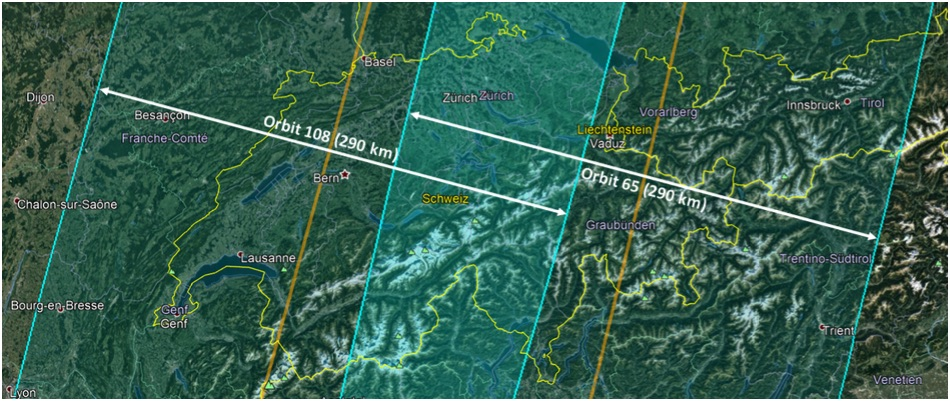
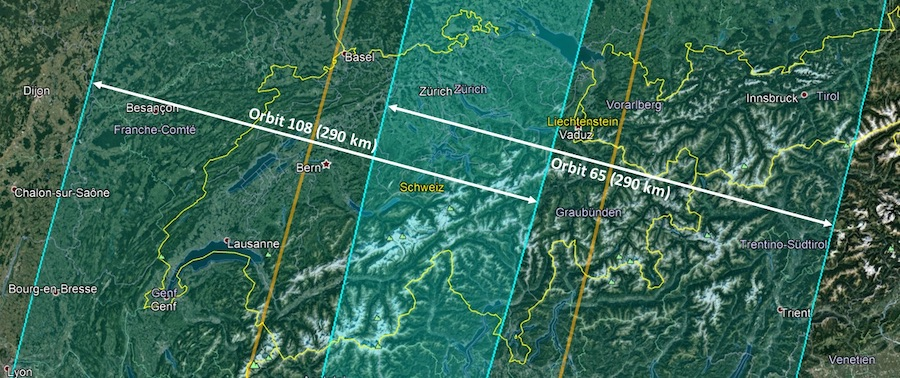
feat:new images and shorter intro text to make contents visible.

diff --git a/webapp/src/utils/description_content.js b/webapp/src/utils/description_content.js
@@ -1,10 +1,10 @@
-import reflectanceImage from "url:../img/projektbeschrieb.jpg";
-import ndviZeitreiheImage from "url:../img/ndvi_zeitreihe.jpg";
+import reflectanceImage from "url:../img/projektbeschrieb.png";
+import ndviZeitreiheImage from "url:../img/ndvi_zeitreihe.png";
 import useCase2Viewer from "url:../img/uc2_viewer_screenshot.jpg";
 import sentinel_orbits from "url:../img/sentinel_orbits.jpg";
 import sommersturm2017Image from "url:../img/sommersturm_2017.jpg";
-import nbrDiff from "url:../img/nbr_diff.jpg";
-import ndviAnomalienImage from "url:../img/ndvi_anomalien.jpg";
+import nbrDiff from "url:../img/nbr_diff.png";
+import ndviAnomalienImage from "url:../img/ndvi_anomalien.PNG";
 import SchlussberichtWeb from "url:../assets/Schlussbericht_Web.pdf";
 import { getVideoElement } from "./main_util";
 
@@ -16,18 +16,13 @@ const descriptionContent = {
     <div>Auf dieser Seite werden die Ergebnisse des Forschungsprojektes <strong>«Einsatz von Fernerkundungsdaten in Forstbetrieben und Forstdiensten anhand von konkreten Use-Cases»</strong> vorgestellt, 
     welches von der Fachhochschule für Agrar-, Forst- und Lebensmittelwissenschaften BFH-HAFL im Auftrag und mit Unterstützung des Bundesamtes für Umwelt (BAFU) und KARTEN-WERK GmbH durchgeführt wurde.</div>
     <div style="height:16px"></div>
-    <div>Das Hauptziel des Projektes war die Implementierung von Kartenviewern sowie Geodiensten (Erklärung dazu siehe z.B. <a href="https://www.geo.admin.ch/de/geo-dienstleistungen/geodienste.html">hier</a>) für konkrete Use-Cases mit existierenden, 
-    möglichst frei verfügbaren Fernerkundungsdaten. Dazu wurden folgende Schritte unternommen:</div>
-    <ul>
-    <li style="padding:12px 0">Ausarbeitung von 3 konkreten Use-Cases zusammen mit VertreterInnen aus der Praxis (Abgleich von Angebot und Nachfrage)</li>
-    <li>Bedarfsgerechte Informationsbereitstellung und Implementierung webbasierter Kartenviewer sowie Bereitstellung der Ergebnisse als Geodienste</li>
-    </ul>
-    <div style="height:16px"></div>
-    <div>Folgende Anwendungsfälle wurden bearbeitet:</div>
-    <ul>
-    <li style="padding:12px 0">Use-Case 1 - <strong>Monitoring jährlicher Waldveränderungen (forstliche Eingriffe und andere)</strong></li>
+    <div>Das Hauptziel des Projektes war die Implementierung von Kartenviewern sowie Geodiensten (Erklärung dazu siehe z.B. <a href="https://www.geo.admin.ch/de/geo-dienstleistungen/geodienste.html" rel="noopener noreferrer" target="_blank">hier</a>) für konkrete Use-Cases mit existierenden, 
+    möglichst frei verfügbaren Fernerkundungsdaten. Es wurden 3 Use-Cases zusammen mit VertreterInnen aus der Praxis ausgearbeitet 
+    (Abgleich von Angebot und Nachfrage), und die Informationen, Daten und Resultate bedarfsgerecht bereitgestellt.</div>
+    <ul style="margin-block-start: 8px; margin-block-end:8px">
+    <li style="padding:4px 0">Use-Case 1 - <strong>Monitoring jährlicher Waldveränderungen (forstliche Eingriffe und andere)</strong></li>
     <li>Use-Case 2 - <strong>Rasche Erfassung von Sommersturmschäden</strong></li>
-    <li style="padding:12px 0">Use-Case 3 - <strong>Hinweiskarten zur Vitalität von Waldflächen</strong></li>
+    <li style="padding:4px 0">Use-Case 3 - <strong>Hinweiskarten zur Vitalität von Waldflächen</strong></li>
     </ul>
   
     <div>Auf dieser Seite finden Sie Hinweise zur korrekten Verwendung der Kartenviewer und Geodienste sowie Videoanleitungen 
@@ -59,9 +54,9 @@ const descriptionContent = {
       Forschungsprojektes eine Expertengruppe mit je drei VertreterInnen von Forstbetrieben und Forstdiensten gebildet. 
       Die drei Use-Cases wurden in enger Zusammenarbeit mit den Praxispersonen ausgebarbeitet.
     <div style="height:16px"></div>
-    Dieses Projekt baut auf den Resultaten der Projekte <a href="https://www.planfor.ch/de/content/schlussbericht-waldmonitoring-mit-sentinel-2-satellitenbildern">
+    Dieses Projekt baut auf den Resultaten der Projekte <a href="https://www.planfor.ch/de/content/schlussbericht-waldmonitoring-mit-sentinel-2-satellitenbildern" rel="noopener noreferrer" target="_blank">
     «Waldmonitoring mit Sentinel-2 Satellitenbildern»</a> und 
-    <a href="https://www.planfor.ch/de/content/schlussbericht-praxistauglicher-einsatz-von-fernerkundung-im-waldbereich-zustand-entwicklung">
+    <a href="https://www.planfor.ch/de/content/schlussbericht-praxistauglicher-einsatz-von-fernerkundung-im-waldbereich-zustand-entwicklung" rel="noopener noreferrer" target="_blank">
     «Praxistauglicher Einsatz von Fernerkundung im Waldbereich»</a> auf.
     <div style="height:24px"></div>
     `
@@ -70,8 +65,8 @@ const descriptionContent = {
       title: "2 Daten",
       content: `Im Fokus dieses Projektes lag die Nutzung von schweizweit frei verfügbaren Daten. Dafür eignen sich insbesondere die Sentinel-2-Satellitenbilder, 
       deren Mehrwert für die Waldwirtschaft bereits aufgezeigt werden konnte
-      (<a href="https://www.szf-jfs.org/doi/abs/10.3188/szf.2018.0026">SZF Artikel</a>, 
-      <a href="https://www.planfor.ch/de/content/april-mai-2019-sentinel-2-kursreihe">FOWALA Kurs</a>).
+      (<a href="https://www.szf-jfs.org/doi/abs/10.3188/szf.2018.0026" rel="noopener noreferrer" target="_blank">SZF Artikel</a>, 
+      <a href="https://www.planfor.ch/de/content/april-mai-2019-sentinel-2-kursreihe" rel="noopener noreferrer" target="_blank">FOWALA Kurs</a>).
       Zusätzlich wurde die nationale Waldmaske (swissTLM3D) verwendet und es können verschiedene Hintergrundkarten 
       (z.B. Luftbilder) dargestellt werden.
       <div style="height:16px"></div>
@@ -79,7 +74,7 @@ const descriptionContent = {
       Seit Ende 2015 sind Sentinel-2-Satellitenbilder frei erhältlich und grossflächig verfügbar. 
       Die häufige Wiederholung der Aufnahmen (alle 2-5 Tage) in für Vegetationsanalysen wichtigen 
       pektralbändern bietet dabei ein grosses Potenzial für die Nutzung im Waldbereich. In einem bereits 
-      abgeschlossenen Projekt (<a href="https://www.planfor.ch/de/content/schlussbericht-waldmonitoring-mit-sentinel-2-satellitenbildern">
+      abgeschlossenen Projekt (<a href="https://www.planfor.ch/de/content/schlussbericht-waldmonitoring-mit-sentinel-2-satellitenbildern" rel="noopener noreferrer" target="_blank">
       Weber & Rosset, 2019</a>) konnte aufgezeigt werden, dass sich starke Waldveränderungen 
       wie Holzschläge oder Sommersturmschäden zeitnah erfassen lassen. Auch für die Klassifizierung von Hauptbaumarten 
       und die Beurteilung der Vitalität wurde ein grosses Potenzial festgestellt.
@@ -93,7 +88,7 @@ const descriptionContent = {
       für die Dichte, Produktivität und Vitalität der Vegetation und eignen sich somit für das <strong>Monitoring von Waldveränderungen</strong>.
       <ol>
       <li>
-      <strong>NDVI</strong> (<a href="https://en.wikipedia.org/wiki/Normalized_difference_vegetation_index">Normalized Difference Vegetation Index</a>): Der NDVI ist der am 
+      <strong>NDVI</strong> (<a href="https://en.wikipedia.org/wiki/Normalized_difference_vegetation_index" rel="noopener noreferrer" target="_blank">Normalized Difference Vegetation Index</a>): Der NDVI ist der am 
       häufigsten verwendete Vegetationsindex. Er berechnet sich aus den Reflexionswerten 
       im nahen Infrarotbereich (NIR) und im roten sichtbaren Bereich (Rot) des Lichtspektrums:<br /><br />
       
@@ -110,7 +105,7 @@ const descriptionContent = {
       <div style="font-size:12px">Abb. 1 : Reflexionsgrad der Vegetation [%] in Abhängigkeit von der Wellenlänge des Lichtes [nm]. 
       Der starke Anstieg der Reflexion innerhalb des roten und nahen infraroten Spektralbereichs ist ein Indikator für die 
       Vitalität von Pflanzen und eignet sich zur Unterscheidung von gesunder (grüne Kurve) und gestresster (schwarze Kurve) Vegetation. 
-      (Bildquelle: <a href="https://www.micasense.com/faq">https://www.micasense.com/faq</a>)</div>
+      (Bildquelle: <a href="https://www.micasense.com/faq" rel="noopener noreferrer" target="_blank">https://www.micasense.com/faq</a>)</div>
       </li>
       <li>
       <div style="height:24px"></div>
@@ -125,11 +120,11 @@ const descriptionContent = {
       <div style="height:16px"></div>
       <strong>Waldmaske</strong><br />
       Die Waldmaske wurde aus dem topografischen Landschaftsmodell der Schweiz (swissTLM3D) abgeleitet 
-      (<a href="https://shop.swisstopo.admin.ch/de/products/landscape/tlm3D">https://shop.swisstopo.admin.ch/de/products/landscape/tlm3D</a>).
+      (<a href="https://shop.swisstopo.admin.ch/de/products/landscape/tlm3D" rel="noopener noreferrer" target="_blank">https://shop.swisstopo.admin.ch/de/products/landscape/tlm3D</a>).
       <div style="height:16px"></div>
       <strong>Hintergrundkarten</strong><br />
       Als Hintergrundkarten werden die Luftbilder und Landeskarten von swisstopo, sowie das Vegetationshöhenmodell 
-      des LFI als <a href="https://shop.swisstopo.admin.ch/de/products/geoservice/swisstopo_geoservices/WMTS_info">swisstopo Geodienste</a> eingebunden.
+      des LFI als <a href="https://shop.swisstopo.admin.ch/de/products/geoservice/swisstopo_geoservices/WMTS_info" rel="noopener noreferrer" target="_blank">swisstopo Geodienste</a> eingebunden.
       <div style="height:24px"></div>
     `
     },
@@ -171,8 +166,8 @@ const descriptionContent = {
       title: "4 Use-Case 2 - Test Sommersturmschäden 2017",
       content: `Im Rahmen des zweiten Use-Cases wurde eine Methode für die automatische Bereitstellung von 
       schweizweiten <strong>Hinweiskarten für Sommersturmschäden</strong> auf Basis von Sentinel-2-Satellitenbildern entwickelt. 
-      Als Beispiel und für den Praxistest wurden die Sommerstürme (Ende <a href="http://www.sturmarchiv.ch/index.php?title=Extremereignisse_2017#Juli">
-      Juli</a> und Anfang <a href="http://www.sturmarchiv.ch/index.php?title=Extremereignisse_2017%23August">August</a>) im Jahr 2017 ausgewählt. 
+      Als Beispiel und für den Praxistest wurden die Sommerstürme (Ende <a href="http://www.sturmarchiv.ch/index.php?title=Extremereignisse_2017#Juli" rel="noopener noreferrer" target="_blank">
+      Juli</a> und Anfang <a href="http://www.sturmarchiv.ch/index.php?title=Extremereignisse_2017%23August" rel="noopener noreferrer" target="_blank">August</a>) im Jahr 2017 ausgewählt. 
       Zwischen dem 5.7.2017 und dem 19.8.2017 können alle verfügbaren Sentinel-2-Aufnahmen, welche mindestens einen Teil 
       der Schweiz abdecken, vom Benutzer/Benutzerin ausgewählt werden. So kann nach einem Sturmereignis rasch geprüft werden, 
       ob eine brauchbare, sprich <strong>möglichst wolkenfreie</strong>, Aufnahme zur Verfügung steht. Daraufhin werden im Kartenviewer potenzielle 
@@ -180,7 +175,7 @@ const descriptionContent = {
 
       Diese ausgewiesenen Veränderungsflächen basieren auf der Abnahme des Normalized Burn Ratio Vegetationsindexes 
       (NBR; siehe Abschnitt 2). In einem Vorgängerprojekt 
-      (<a href="https://www.planfor.ch/de/content/schlussbericht-waldmonitoring-mit-sentinel-2-satellitenbildern">Weber & Rosset, 2019</a>) 
+      (<a href="https://www.planfor.ch/de/content/schlussbericht-waldmonitoring-mit-sentinel-2-satellitenbildern" rel="noopener noreferrer" target="_blank">Weber & Rosset, 2019</a>) 
       hat sich dieser Index als geeignet für die Detektion von Sturmschadflächen erwiesen.<br /><br />
 
       Die Werte in der Legende des Kartenviewers stellen die <strong>Abnahme des NBR</strong> multipliziert mit 100 dar, 
@@ -241,7 +236,7 @@ const descriptionContent = {
     <u>Hintergrundinformationen zur Methode</u><br /><br />
     Für jede Sentinel-2-Aufnahme innerhalb der definierten Zeitspanne (5.7. bis 19.8.2017) wurde zuerst der NBR berechnet 
     (<strong style="color:green">NBR<sub>Aktuell</sub></strong>), siehe Abb. 6). Wolken wurden dabei mittels der 
-    <a href="https://sentinel.esa.int/web/sentinel/technical-guides/sentinel-2-msi/level-1c/cloud-masks">ESA Wolkenmaske</a> 
+    <a href="https://sentinel.esa.int/web/sentinel/technical-guides/sentinel-2-msi/level-1c/cloud-masks" rel="noopener noreferrer" target="_blank">ESA Wolkenmaske</a> 
     ausgeschieden. Daraufhin wurde der NBR für die <strong>Referenzperiode</strong> berechnet, welche als das <strong>45-Tages-Fenster</strong> 
     vor dem ausgewählten Aufnahmedatum definiert wurde. <br />
     Zu diesem Zweck wurde zuerst mittels der in Abschnitt 3 beschriebenen <i>NDVI Maximum Komposit Methode</i> aus allen verfügbaren 
@@ -266,7 +261,7 @@ const descriptionContent = {
     Eine anspruchsvolle Situation stellt sich jedoch im Winter: Vegetationszustand, Beleuchtungsintensität, Wolken, Schatten und Schnee 
     stellen zusätzliche Herausforderungen dar. Ein möglicher Lösungsansatz wäre eine Kombination mit Sentinel-1 Daten, welche von 
     Bewölkungs- und Beleuchtungsintensität nicht beeinflusst werden 
-    (siehe dazu ein <a href="https://www.wsl.ch/de/projekte/sturmhinweiskarte.html">laufendes Projekt an der WSL</a>).
+    (siehe dazu ein <a href="https://www.wsl.ch/de/projekte/sturmhinweiskarte.html" rel="noopener noreferrer" target="_blank">laufendes Projekt an der WSL</a>).
     <div style="height:24px"></div>`
     },
     {
@@ -295,8 +290,8 @@ const descriptionContent = {
       ${getVideoElement("wraBOBSfcdk")}
       <div style="height:16px"></div>
       <u>Hintergrundinformationen zur Methode</u><br /><br />
-      Die Berechnung der NDVI-Anomalien basiert auf dem sogenannten <a href="https://de.wikipedia.org/wiki/Standardisierung_(Statistik)">Z-Wert</a> 
-      (siehe z.B. <a href="https://www.sciencedirect.com/science/article/pii/S0034425718305509">Meroni et al., 2019</a>):<br /><br />
+      Die Berechnung der NDVI-Anomalien basiert auf dem sogenannten <a href="https://de.wikipedia.org/wiki/Standardisierung_(Statistik)" rel="noopener noreferrer" target="_blank">Z-Wert</a> 
+      (siehe z.B. <a href="https://www.sciencedirect.com/science/article/pii/S0034425718305509" rel="noopener noreferrer" target="_blank">Meroni et al., 2019</a>):<br /><br />
 
       Z<sub>i</sub> = (NDVI<sub>median,i</sub> - NDVI<sub>median,ref</sub>) / NDVI<sub>sd,ref</sub>
       <div style="height:16px"></div>
@@ -333,7 +328,7 @@ const descriptionContent = {
       Die dargestellten Karten können auch als <strong>Geodienste</strong> (WMS, WMTS, WFS) in eine GIS-Umgebung eingebunden werden. 
       Durch Klick auf die Kachel „<a href="https://forestmonitoring.lab.karten-werk.ch/services">Geodienste</a>“ 
       erfahren Sie mehr darüber. Einfache Video-Tutorials zeigen anhand von Beispielen, wie Sie die Services in QGIS einbinden können.<br /><br />
-      Die gesamte Webapplikation ist Open Source und unter: <a href="https://github.com/HAFL-FWI/Digital-Forest-Monitoring/tree/master/webapp">https://github.com/HAFL-FWI/Digital-Forest-Monitoring/tree/master/webapp</a> verfügbar.  
+      Die gesamte Webapplikation ist Open Source und unter: <a href="https://github.com/HAFL-FWI/Digital-Forest-Monitoring/tree/master/webapp" rel="noopener noreferrer" target="_blank">https://github.com/HAFL-FWI/Digital-Forest-Monitoring/tree/master/webapp</a> verfügbar.  
       Bei Fragen oder Verbesserungswünschen wenden Sie sich bitte an untenstehenden Kontakt.<br /><br />
       Hanskaspar Frei von KARTEN-WERK GmbH, <a href="mailto:hkfrei@karten-werk.ch">hkfrei@karten-werk.ch</a>
       <div style="height:24px"></div>
@@ -349,7 +344,7 @@ const descriptionContent = {
       Praxis gesammelt, dokumentiert und bereitgestellt werden. Wer dazu beitragen möchte, weitere Anregungen oder generell 
       Interesse hat, aktiver Teil der User Community zu werden, kann sich sehr gerne jederzeit bei Alexandra Erbach (<a href="mailto:alexandra.erbach@bfh.ch">alexandra.erbach@bfh.ch</a>) melden.
       <div style="height:18px"></div>
-      <div><a href="${SchlussberichtWeb}">Download Schlussbericht als PDF</a></div>
+      <div><a href="${SchlussberichtWeb}" rel="noopener noreferrer" target="_blank">Download Schlussbericht als PDF</a></div>
       <div style="height:24px"></div>
       `
     }

diff --git a/webapp/src/utils/homepage_util.js b/webapp/src/utils/homepage_util.js
@@ -2,7 +2,7 @@ import useCase1Image from "url:../img/Use-Case1_600.jpg";
 import useCase2Image from "url:../img/Use-Case2_600.jpg";
 import useCase3Image from "url:../img/Use-Case3_600.jpg";
 import geoservices from "url:../img/geoservices.jpg";
-import projektbeschriebImage from "url:../img/projektbeschrieb.jpg";
+import projektbeschriebImage from "url:../img/projektbeschrieb.png";
 import { router } from "./router";
 import { createGrid } from "./main_util";
 const homepageUtil = {

diff --git a/webapp/src/utils/description_util.js b/webapp/src/utils/description_util.js
@@ -61,6 +61,7 @@ const description_util = {
     getAuthors: () => {
       const wrapper = description_util.view.getWrapper();
       const authors = document.createElement("span");
+      authors.style.fontSize = "14px";
       authors.innerText = descriptionContent.authors;
       wrapper.appendChild(authors);
       return wrapper;
